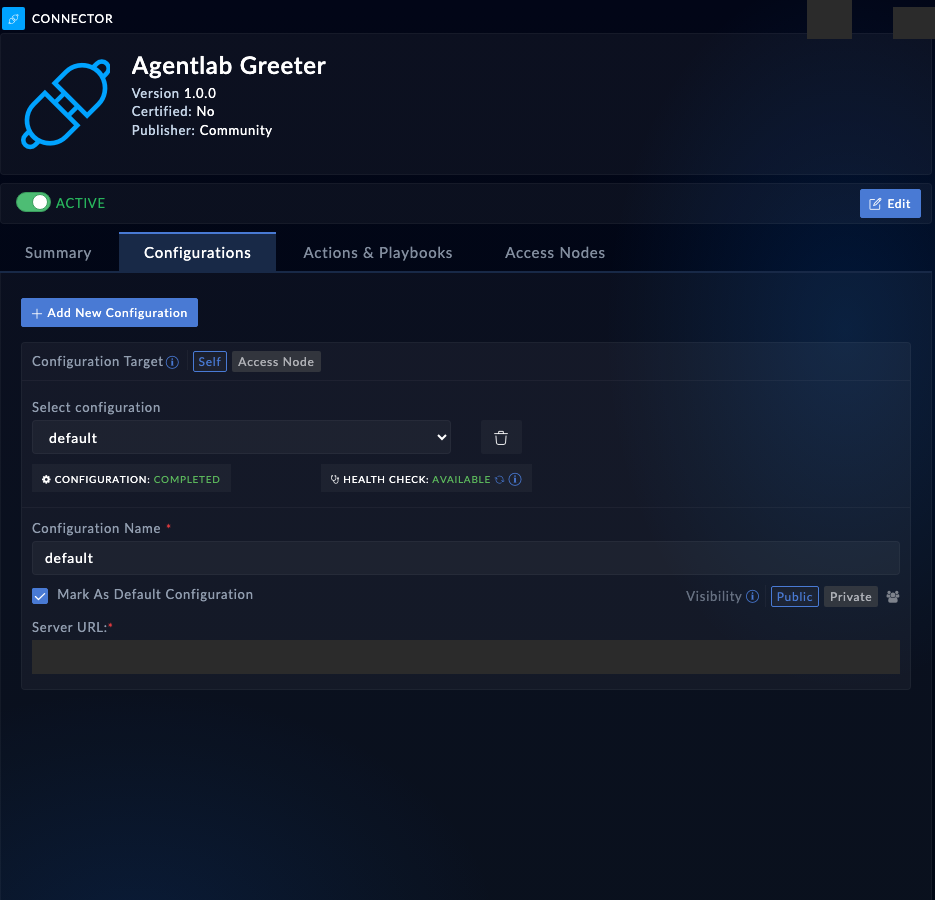
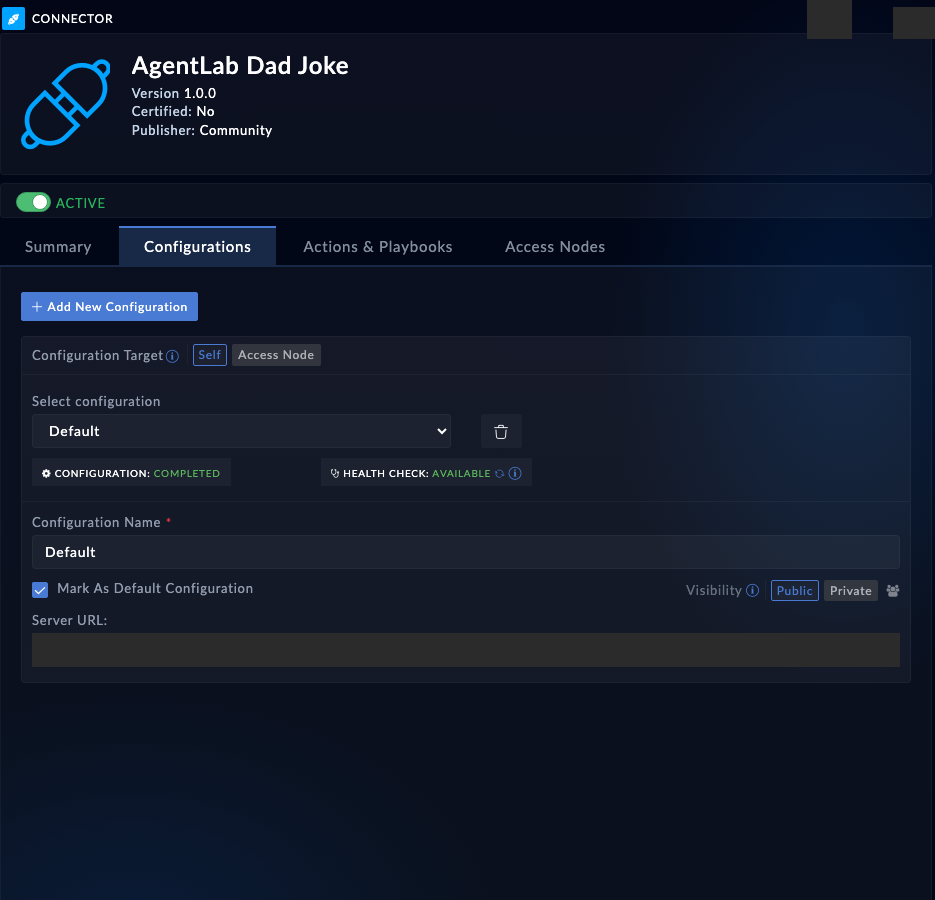
ch9 UI capture: refresh connector detail panel to the dad-joke connector
Update the ch9 UI capture spec from the retired greeter to AgentLab Dad Joke
(the connector the build lab installs). fsa09-02 now shows that connector's
detail panel (ACTIVE, HEALTH CHECK: AVAILABLE, Default config, server URL
masked). Fix the display title in the content (AgentLab Dad Joke). Drop the
stale greeter card PNG. fsa09-05 (the dad-joke tile in the Connectors grid)
stays pending: the grid-tile clip varies by install set and needs dialing in;
the detail-panel shot already proves the install.

diff --git a/tools/e2e/captures/ch09.spec.js b/tools/e2e/captures/ch09.spec.js
@@ -1,6 +1,7 @@
 "use strict";
-// Chapter 9 captures: the installed greeter on the Connectors page (fsa09-05). It depends
-// on the chapter 9 proof spec having installed the greeter; with no greeter it fails.
+// Chapter 9 captures: the installed dad-joke connector on the Connectors page
+// (fsa09-05). It depends on the chapter 9 build lab having installed
+// agentlab-dadjoke; with it absent, this fails.
 const { test, expect } = require("@playwright/test");
 const { openSession } = require("../lib/harness");
 const { shotPanel, settle } = require("./lib/shots");
@@ -12,27 +13,17 @@ test("09-connectors", async () => {
   const s = await openSession();
   const page = s.page;
   try {
-    await page.goto(`${s.base}/connectors`, { waitUntil: "domcontentloaded" });
-    await settle(page);
-    await expect(
-      page.getByText("Agentlab Greeter", { exact: false }).first(),
-      "the greeter connector is not installed: run the chapter 9 proof spec first",
-    ).toBeVisible();
-    await shotPanel(page, {
-      chapter: "09-connectors",
-      id: "fsa09-05-greeter-installed",
-      locator: page.locator("body"),
-      // The Agentlab Greeter card in Content Hub > Manage (filtered to Connectors).
-      clip: { x: 670, y: 340, width: 265, height: 360 },
-      pad: 0,
-    });
+    // fsa09-05 (the dad-joke card in the Connectors grid) is still pending: the
+    // grid tile's position and container class vary by install set, so the clip
+    // needs dialing in on the target box. fsa09-02 below (the connector's detail
+    // panel, ACTIVE + HEALTH CHECK: AVAILABLE) already proves the install.
 
     // fsa09-02: the connector's detail panel (Configurations tab) in Content Hub > Manage.
     await page.goto(`${s.base}/connectors`, { waitUntil: "domcontentloaded" });
     await settle(page);
     await page.getByText("Manage", { exact: true }).first().click();
     await settle(page);
-    await page.getByText("Agentlab Greeter", { exact: true }).first().click();
+    await page.getByText("AgentLab Dad Joke", { exact: true }).first().click();
     await settle(page, 2000);
     await expect(page.getByText("HEALTH CHECK:", { exact: false }).first()).toBeVisible();
     await shotPanel(page, {

diff --git a/content/09-connectors/02-build-a-connector.md b/content/09-connectors/02-build-a-connector.md
@@ -58,7 +58,7 @@ returned.
 
 **What success looks like:** a real dad joke comes back - produced by code your agent wrote, calling a live external API from inside FortiSOAR's connector runtime.
 
-**Verify in the UI:** **Connectors** now lists Agentlab Dadjoke v1.0.0 (Content Hub, Manage, filtered to Connectors) as installed.
+**Verify in the UI:** **Connectors** now lists AgentLab Dad Joke v1.0.0 (Content Hub, Manage, filtered to Connectors) as installed.
 
 <!-- capture: fsa09-05-dadjoke-installed -->
 ![fsa09-05-dadjoke-installed](fsa09-05-dadjoke-installed.png)
